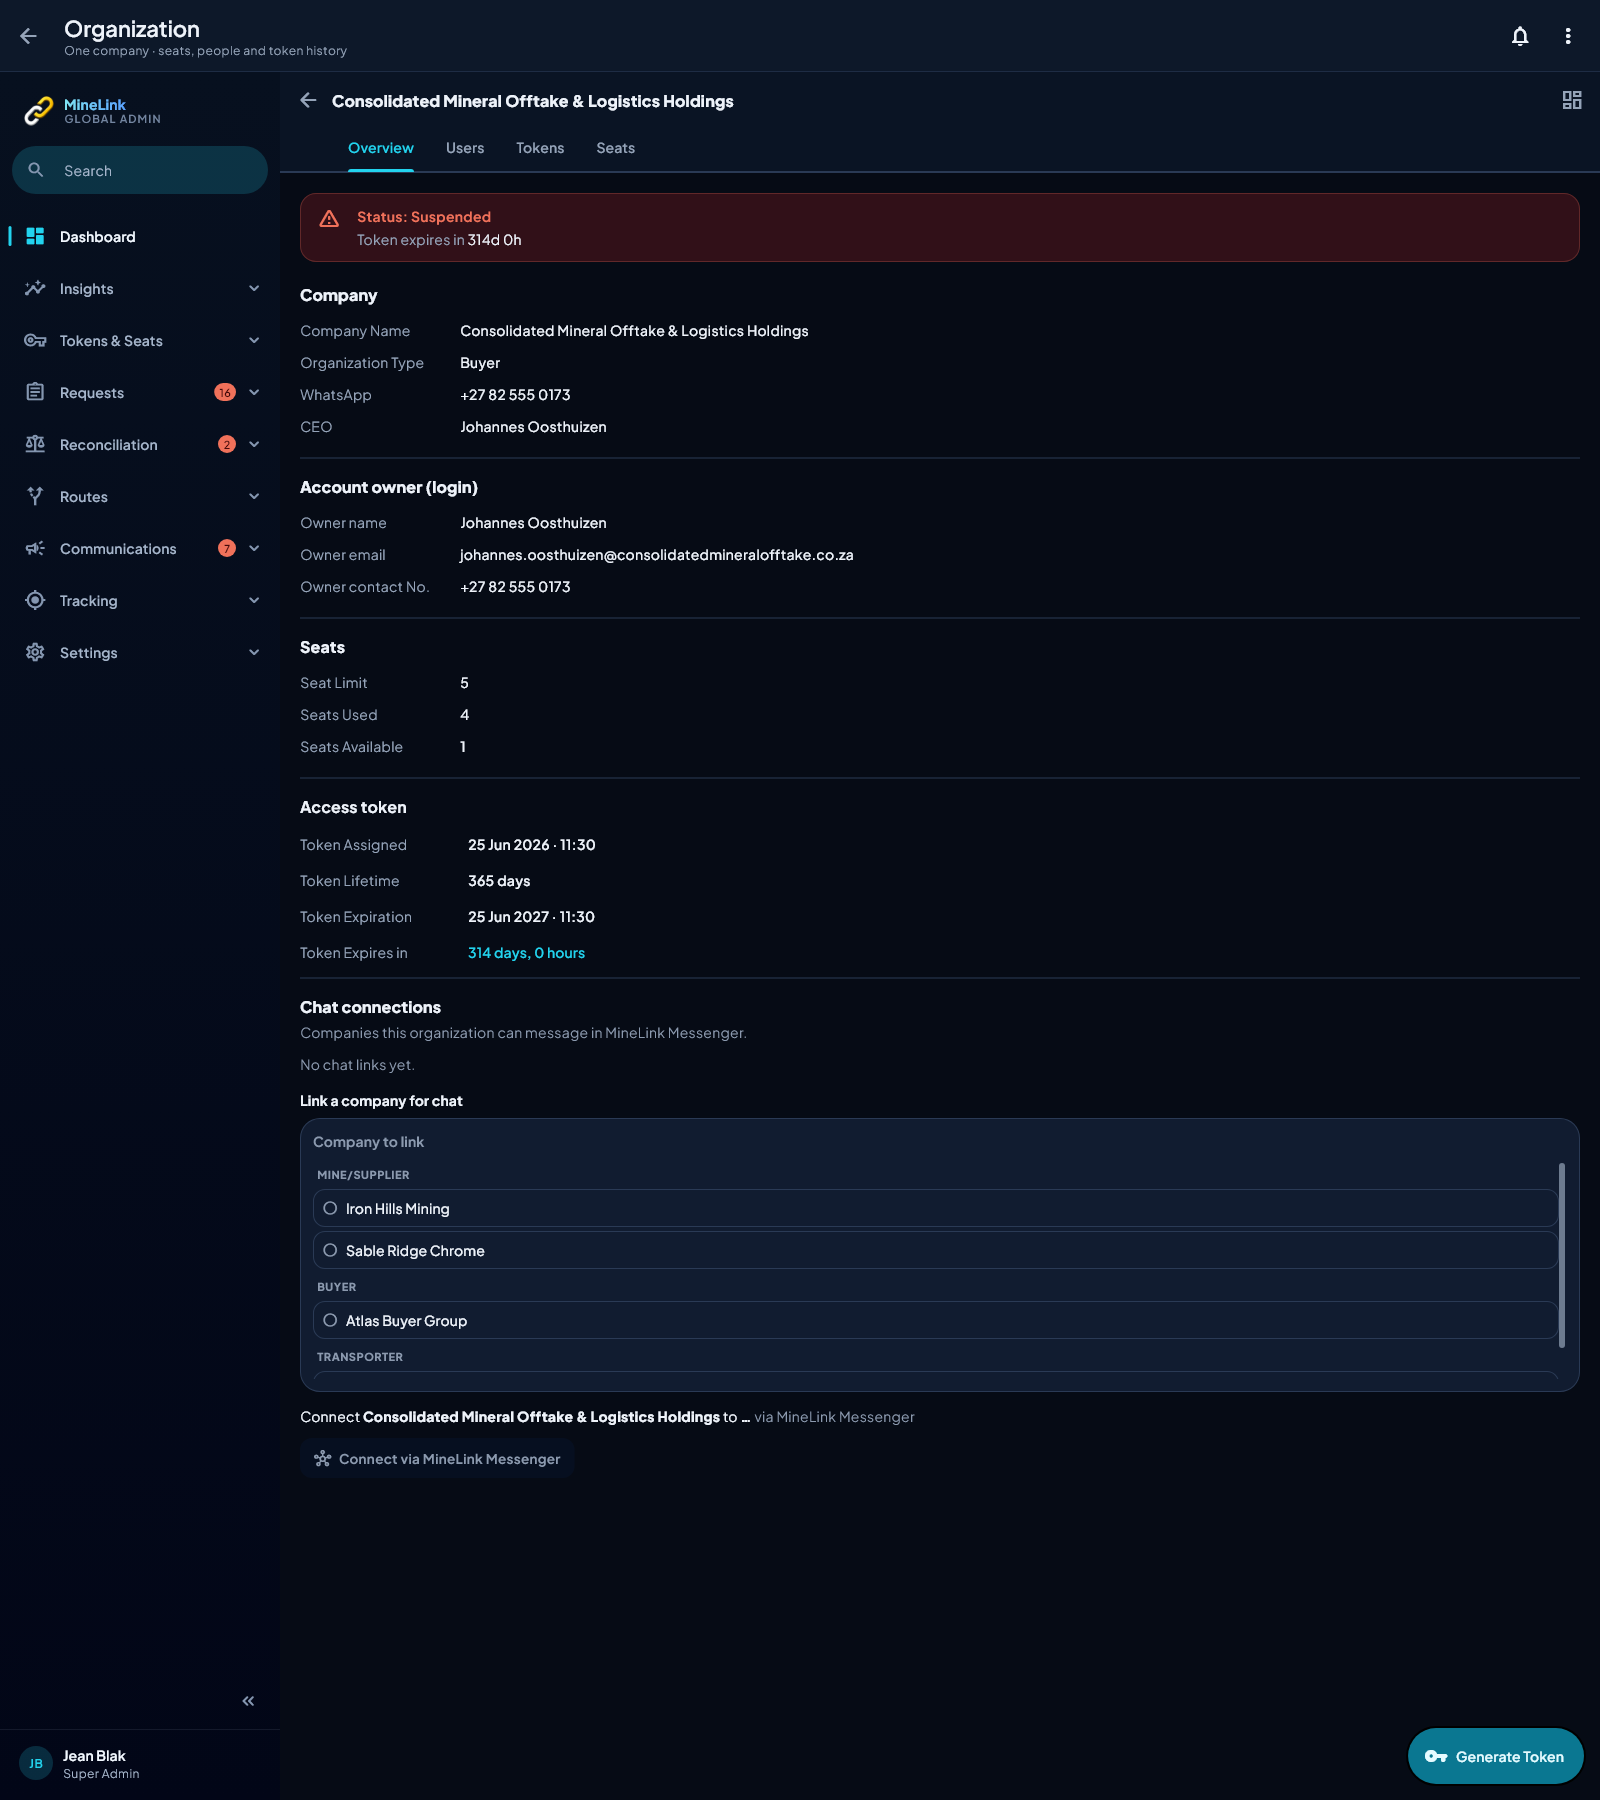
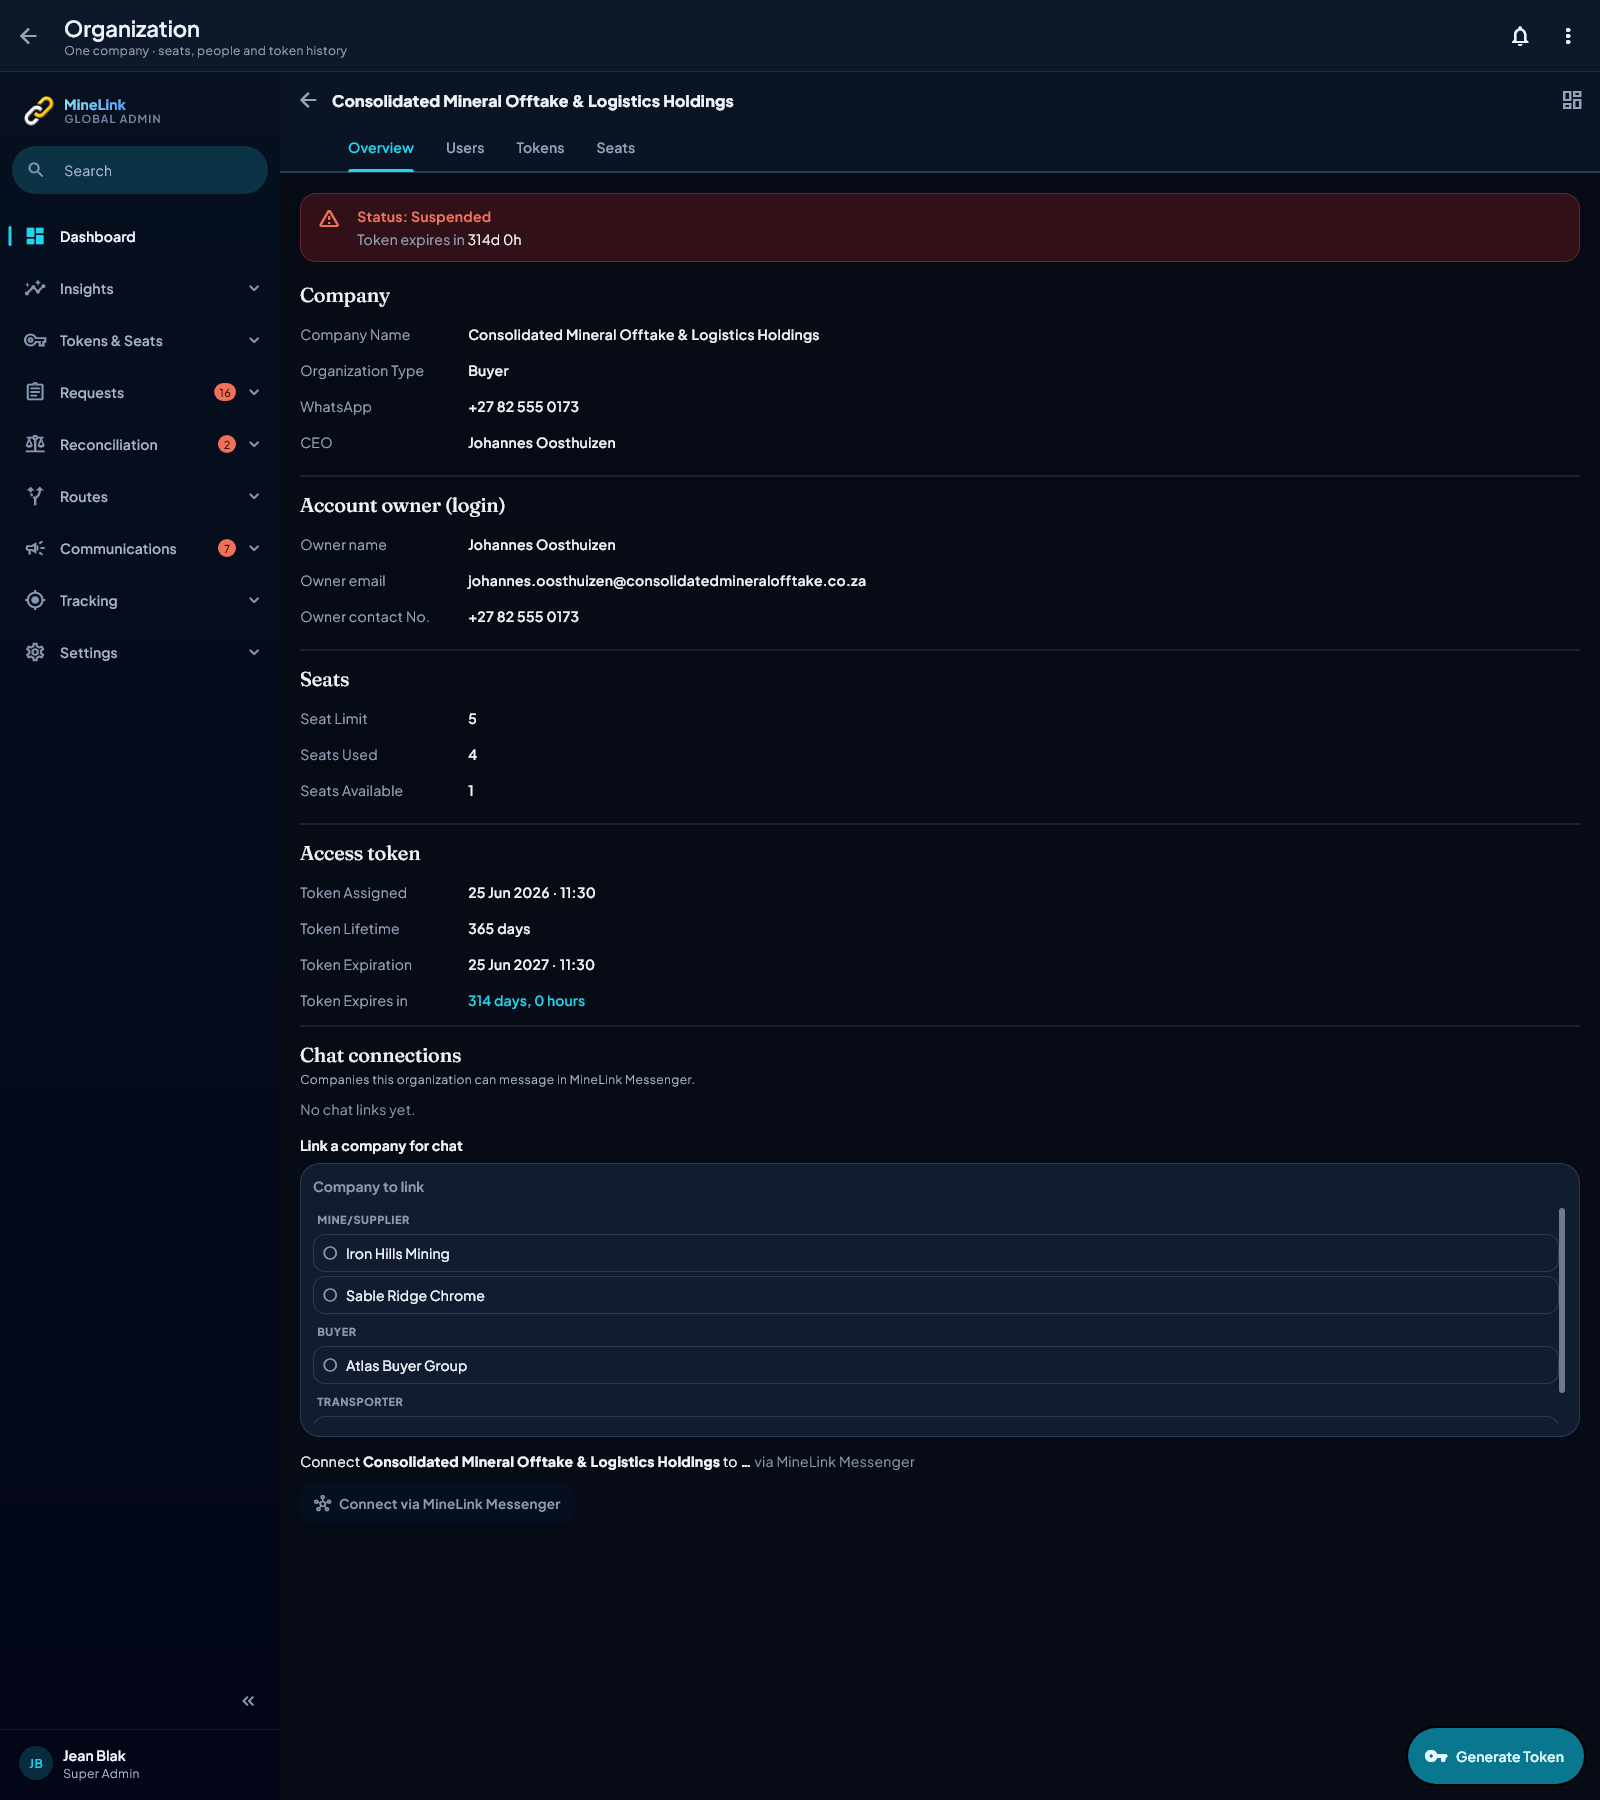
fix(console): organisation detail heads its sections in the display face, and its rows share one column
Phase 3 per-screen pass, 2026-08-23. Two drifts on the organisation detail:

1. Company · Account owner (login) · Seats · Access token · Chat connections
   were PlusJakartaSans ExtraBold set by hand — the portal's pre-reference
   heading (ml_section_title.dart) — on a console screen whose neighbours
   head every section in Fraunces. Now MlSectionTitle, with the chat
   section's explanatory line as its subtitle; the Access-token heading
   lives in the shared TokenAccessDetailsSection (also on the profile
   screen) and moves with it.

2. Two private _InfoRow copies — the screen's (160px label, 6px, w500) and
   the token widget's (168px, 8px, w600) — so the value column stepped 8px
   right between "Seats" and "Access token" and the rows below sat further
   apart. The screen's rows now match the shared widget's.

Pinned in console_tail_test.dart: each of the five headings is an
MlSectionTitle in MlTokens.fontSerif; the value x of an owner row equals
that of a token row (±0.5). Both sabotaged by stashing the screen file:
each fails alone. Renders regenerated and looked at.

Changed region(s): [[0.1875, 0.1556, 1.0, 0.84], [0.3125, 0.1556, 0.4062, 0.1867], [0.4375, 0.1556, 0.5, 0.1867]]

diff --git a/lib/features/super_admin/screens/organization_detail_screen.dart b/lib/features/super_admin/screens/organization_detail_screen.dart
@@ -483,14 +483,10 @@ class _OverviewTab extends ConsumerWidget {
                   );
                 }),
               const SizedBox(height: 20),
-              Text(
+              const MlSectionTitle(
                 'Company',
-                style: context.mlText.titleMedium.copyWith(
-                  color: MlSemantic.of(context).textStrong,
-                  fontWeight: FontWeight.w800,
-                ),
+                margin: EdgeInsets.only(bottom: 8),
               ),
-              const SizedBox(height: 8),
               _InfoRow(
                   label: 'Company Name',
                   value: org['company_name'] as String? ?? '—'),
@@ -513,26 +509,18 @@ class _OverviewTab extends ConsumerWidget {
                             .trim(),
               ),
               const Divider(height: 32),
-              Text(
+              const MlSectionTitle(
                 'Account owner (login)',
-                style: context.mlText.titleMedium.copyWith(
-                  color: MlSemantic.of(context).textStrong,
-                  fontWeight: FontWeight.w800,
-                ),
+                margin: EdgeInsets.only(bottom: 8),
               ),
-              const SizedBox(height: 8),
               _InfoRow(label: 'Owner name', value: _ownerName(org)),
               _InfoRow(label: 'Owner email', value: _ownerEmail(org)),
               _InfoRow(label: 'Owner contact No.', value: ownerContact),
               const Divider(height: 32),
-              Text(
+              const MlSectionTitle(
                 'Seats',
-                style: context.mlText.titleMedium.copyWith(
-                  color: MlSemantic.of(context).textStrong,
-                  fontWeight: FontWeight.w800,
-                ),
+                margin: EdgeInsets.only(bottom: 8),
               ),
-              const SizedBox(height: 8),
               _InfoRow(label: 'Seat Limit', value: '$seatLimit'),
               _InfoRow(label: 'Seats Used', value: '$seatsUsed'),
               _InfoRow(
@@ -590,17 +578,17 @@ class _ChatConnectionsSection extends ConsumerWidget {
     return Column(
       crossAxisAlignment: CrossAxisAlignment.start,
       children: [
-        Text(
+        // The reference's section header — Fraunces title, one calm line
+        // under it — through MlSectionTitle, as the four headings above it.
+        // These five were PlusJakartaSans ExtraBold set by hand, the
+        // portal's pre-reference vocabulary (ml_section_title.dart), on a
+        // console screen. Found 2026-08-23 in the Phase 3 pass.
+        const MlSectionTitle(
           'Chat connections',
-          style: context.mlText.titleMedium.copyWith(
-            color: semantic.textStrong,
-            fontWeight: FontWeight.w800,
-          ),
+          subtitle:
+              'Companies this organization can message in MineLink Messenger.',
+          margin: EdgeInsets.only(bottom: 12),
         ),
-        const SizedBox(height: 4),
-        Text('Companies this organization can message in MineLink Messenger.',
-            style: context.mlText.bodyMedium.copyWith(color: semantic.textFaint)),
-        const SizedBox(height: 12),
         if (mine.isEmpty)
           Text('No chat links yet.',
               style: context.mlText.bodyMedium.copyWith(
@@ -686,15 +674,25 @@ class _InfoRow extends StatelessWidget {
 
   @override
   Widget build(BuildContext context) {
+    // The same rhythm as the rows TokenAccessDetailsSection draws under
+    // "Access token" on this very screen: 168px label column, 8px vertical,
+    // w600 value. They differed (160 / 6 / w500), so the value column
+    // jumped 8px to the right between "Seats" and "Access token" and the
+    // rows below sat 4px further apart. Measured on the render, 2026-08-23.
     return Padding(
-      padding: const EdgeInsets.symmetric(vertical: 6),
+      padding: const EdgeInsets.symmetric(vertical: 8),
       child: Row(
+        crossAxisAlignment: CrossAxisAlignment.start,
         children: [
           SizedBox(
-            width: 160,
-            child: Text(label, style: TextStyle(color: Theme.of(context).colorScheme.onSurfaceVariant)),
+            width: 168,
+            child: Text(label,
+                style: TextStyle(
+                    color: Theme.of(context).colorScheme.onSurfaceVariant)),
           ),
-          Expanded(child: Text(value.isEmpty ? '-' : value, style: const TextStyle(fontWeight: FontWeight.w500))),
+          Expanded(
+              child: Text(value.isEmpty ? '-' : value,
+                  style: const TextStyle(fontWeight: FontWeight.w600))),
         ],
       ),
     );

diff --git a/test/features/super_admin/console_tail_test.dart b/test/features/super_admin/console_tail_test.dart
@@ -282,6 +282,47 @@ void main() {
             'explaining nothing.');
   });
 
+  testWidgets('and its section headings are the reference section title',
+      (tester) async {
+    // Company · Account owner · Seats · Access token · Chat connections were
+    // PlusJakartaSans ExtraBold set by hand — the portal's pre-reference
+    // heading — on a console screen whose neighbours head every section in
+    // Fraunces through MlSectionTitle. Found 2026-08-23 in the Phase 3 pass.
+    await pump(tester, const OrganizationDetailScreen(organizationId: 'o4'),
+        width: 1600, height: 1800);
+    for (final title in const [
+      'Company',
+      'Account owner (login)',
+      'Seats',
+      'Access token',
+      'Chat connections',
+    ]) {
+      final heading = find.descendant(
+          of: find.byType(MlSectionTitle), matching: find.text(title));
+      expect(heading, findsOneWidget,
+          reason: '"$title" is not an MlSectionTitle heading');
+      expect(tester.widget<Text>(heading).style?.fontFamily,
+          MlTokens.fontSerif,
+          reason: '"$title" is not in the display face');
+    }
+  });
+
+  testWidgets('and every key/value row shares one value column',
+      (tester) async {
+    // Two private _InfoRow copies — the screen's own and the shared token
+    // widget's — had 160px and 168px label columns, so the value column
+    // stepped 8px right between "Seats" and "Access token". Geometry, not
+    // overflow: nothing threw.
+    await pump(tester, const OrganizationDetailScreen(organizationId: 'o4'),
+        width: 1600, height: 1800);
+    double valueX(String value) =>
+        tester.getTopLeft(find.text(value).first).dx;
+    final company = valueX('Johannes Oosthuizen');
+    expect(valueX('365 days'), closeTo(company, 0.5),
+        reason: 'the Access token rows start their values at a different x '
+            'from the Company rows');
+  });
+
   testWidgets('and the countdown is not measured against the device clock',
       (tester) async {
     // The fixture token expires 314 days after `kCaptureNow`. Read off

diff --git a/lib/features/super_admin/widgets/token_access_details.dart b/lib/features/super_admin/widgets/token_access_details.dart
@@ -2,9 +2,10 @@ import 'dart:async';
 
 import 'package:flutter/material.dart';
 
+import 'package:flutter_application_1/core/design/components/ml_components.dart';
+
 import 'package:flutter_application_1/features/super_admin/data/models/serial_token.dart';
 import 'package:flutter_application_1/core/time/ml_time.dart';
-import 'package:flutter_application_1/core/utils/ml_count.dart';
 
 /// Prefer the newest active token when multiple exist.
 SerialToken? pickActiveSerialToken(List<SerialToken> tokens) {
@@ -107,13 +108,12 @@ class TokenAccessDetailsSection extends StatelessWidget {
     return Column(
       crossAxisAlignment: CrossAxisAlignment.start,
       children: [
-        Text(
+        // The same section heading as the four above it on the organisation
+        // detail screen (MlSectionTitle, the reference's Fraunces title).
+        const MlSectionTitle(
           'Access token',
-          style: Theme.of(context).textTheme.titleMedium?.copyWith(
-                fontWeight: FontWeight.bold,
-              ),
+          margin: EdgeInsets.only(bottom: 8),
         ),
-        const SizedBox(height: 8),
         _InfoRow(
           label: 'Token Assigned',
           value: assigned != null ? formatAccessTimestamp(assigned) : '—',
